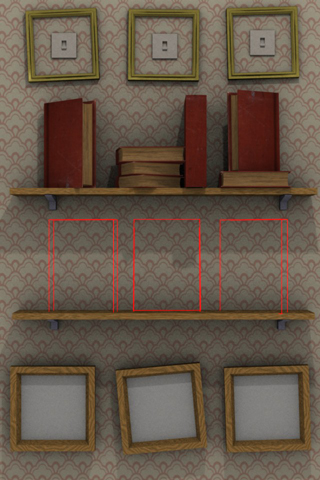
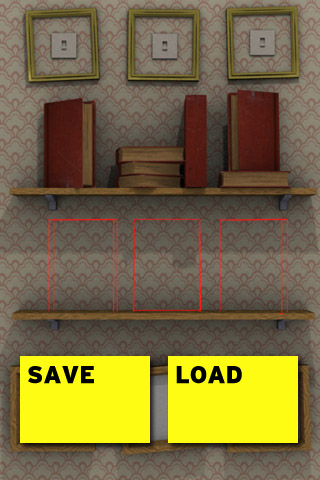
starting to move all of the data that we need to save into a seperate model structure. should make it possible to save (woop!)

Changed region(s): [[0.0625, 0.7188, 0.9688, 0.9375]]

diff --git a/src/testApp.mm b/src/testApp.mm
@@ -30,7 +30,7 @@ void testApp::setup(){
 
 	NSArray *noteSampleArray = [[NSArray alloc] initWithObjects:@"blg", @"bng", @"chm", @"cht", @"crh", @"plk", @"tnk", @"wmm", nil];
 	
-	NSMutableArray *instrumentGroup = [[NSMutableArray alloc]initWithCapacity:3];
+	instrumentGroup = [[NSMutableArray alloc]initWithCapacity:3];
 	NSMutableArray *samplePool = [[NSMutableArray alloc]initWithCapacity:3];
 	
 	[player setInstrumentGroup: instrumentGroup];
@@ -79,8 +79,9 @@ void testApp::setup(){
 		
 		[sampleInstrument reset];
 		[sampleInstrument release];
+
 	}
-		
+	
 	currentGrid = 0;	
 	[player start];
 }
@@ -104,10 +105,31 @@ void testApp::draw(){
 	ofSetColor(255, 255, 255);
 	//belt.getTextureReference().draw(0, 0);
 }
+void testApp::saveDefaults(){
+	[[NSUserDefaults standardUserDefaults] setObject:[NSKeyedArchiver archivedDataWithRootObject:mainController] forKey:@"savedArray"];
+}
+void testApp::loadDefaults(){
+	NSUserDefaults *currentDefaults = [NSUserDefaults standardUserDefaults];
+	NSData *dataRepresentingSavedArray = [currentDefaults objectForKey:@"savedArray"];
+	if (dataRepresentingSavedArray != nil)
+	{
+		NSLog(@"dearchiving");
+		mainController = [NSKeyedUnarchiver unarchiveObjectWithData:dataRepresentingSavedArray];
+
+		// reload all the missing shit.
+		[mainController setInstrumentGroup:instrumentGroup];
+		// also the grid controllers need access to the player, loop samples, note samples, and the helper
+		[mainController setPlayer:player];
+			
+	}	
+}
+
 void testApp::exit() {
+	// here we GOOOOOOO!
+	// time to archive this thinguuu
 	// need to dealloc all my shit.
 	[player stop];
-	printf("exit()\n");
+	NSLog(@"exiting");
 }
 
 void testApp::setOffset(float x, float y){
@@ -140,8 +162,16 @@ void testApp::mouseReleased(int x, int y, int button){
 }
 
 //--------------------------------------------------------------
-void testApp::touchDown(float x, float y, int touchId, ofxMultiTouchCustomData *data){	
-	[mainController touchDownX:x y:y touchId:touchId];
+void testApp::touchDown(float x, float y, int touchId, ofxMultiTouchCustomData *data){
+	if(y>360 && y<444){
+		if(x>20 && x<148){
+			this->saveDefaults();
+		}else if(x>169 && x<297){
+			this->loadDefaults();			
+		}
+	}else{
+		[mainController touchDownX:x y:y touchId:touchId];
+	}
 }
 //--------------------------------------------------------------
 void testApp::touchMoved(float x, float y, int touchId, ofxMultiTouchCustomData *data){

diff --git a/src/InMemoryAudioFile.m b/src/InMemoryAudioFile.m
@@ -27,8 +27,8 @@
 -(OSStatus)open:(NSString *)filePath{
 	
 	//print out the file path
-	NSLog(@"FilePath: ");
-	NSLog(filePath);
+//	NSLog(@"FilePath: ");
+//	NSLog(filePath);
 	
 	//get a ref to the audio file, need one to open it
 	CFURLRef audioFileURL = CFURLCreateFromFileSystemRepresentation (NULL, (const UInt8 *)[filePath cStringUsingEncoding:[NSString defaultCStringEncoding]] , strlen([filePath cStringUsingEncoding:[NSString defaultCStringEncoding]]), false);
@@ -37,7 +37,7 @@
 	OSStatus result = AudioFileOpenURL (audioFileURL, 0x01, 0, &mAudioFile);
 	//were there any errors reading? if so deal with them first
 	if (result != noErr) {
-		NSLog([NSString stringWithFormat:@"Could not open file: %s", filePath]);
+//		NSLog([NSString stringWithFormat:@"Could not open file: %s", filePath]);
 		packetCount = -1;
 	}
 	//otherwise
@@ -45,7 +45,7 @@
 		//get the file info
 		[self getFileInfo];
 		//how many packets read? (packets are the number of stereo samples in this case)
-		NSLog([NSString stringWithFormat:@"File Opened, packet Count: %d", packetCount]);
+//		NSLog([NSString stringWithFormat:@"File Opened, packet Count: %d", packetCount]);
 		
 		UInt32 packetsRead = packetCount;
 		OSStatus result = -1;
@@ -66,12 +66,12 @@
 		}
 		if (result==noErr){
 			//print out general info about  the file
-			NSLog([NSString stringWithFormat:@"Packets read from file: %d\n", packetsRead]);
-			NSLog([NSString stringWithFormat:@"Bytes read from file: %d\n", numBytesRead]);
-			//for a stereo 32 bit per sample file this is ok
-			NSLog([NSString stringWithFormat:@"Sample count: %d\n", numBytesRead / 2]);
-			//for a 32bit per stereo sample at 44100khz this is correct
-			NSLog([NSString stringWithFormat:@"Time in Seconds: %f.4\n", ((float)numBytesRead / 4.0) / 44100.0]);
+//			NSLog([NSString stringWithFormat:@"Packets read from file: %d\n", packetsRead]);
+//			NSLog([NSString stringWithFormat:@"Bytes read from file: %d\n", numBytesRead]);
+//			//for a stereo 32 bit per sample file this is ok
+//			NSLog([NSString stringWithFormat:@"Sample count: %d\n", numBytesRead / 2]);
+//			//for a 32bit per stereo sample at 44100khz this is correct
+//			NSLog([NSString stringWithFormat:@"Time in Seconds: %f.4\n", ((float)numBytesRead / 4.0) / 44100.0]);
 		}
 	}
 	

diff --git a/src/gridController.mm b/src/gridController.mm
@@ -50,6 +50,31 @@
 	pickerStyleSegmentedControl.selectedSegmentIndex = 0;
 	return self;
 }
+-(void)encodeWithCoder:(NSCoder *)coder{
+	[coder encodeObject:[[NSNumber alloc]initWithInt:currentSample] forKey:@"currentSample"];
+	// should convert into NSArray
+	[coder encodeObject:[[NSArray alloc]initWithObjects:[[NSNumber alloc]initWithInt:steps[0]],
+		[[NSNumber alloc]initWithInt:steps[1]],
+		[[NSNumber alloc]initWithInt:steps[2]],
+		[[NSNumber alloc]initWithInt:steps[3]],
+		[[NSNumber alloc]initWithInt:steps[4]],
+		[[NSNumber alloc]initWithInt:steps[5]],
+		[[NSNumber alloc]initWithInt:steps[6]],
+		[[NSNumber alloc]initWithInt:steps[7]],
+		nil] forKey:@"steps"];
+}
+- (id)initWithCoder:(NSCoder *)coder;
+{
+    if (self != nil)
+    {
+		currentSample = (int)[coder decodeObjectForKey:@"currentSample"];
+		NSArray* stepArray = [coder decodeObjectForKey:@"steps"];
+		for(int i=0;i<8;i++){
+			steps[i] = (int)[stepArray objectAtIndex:i];
+		}
+    }
+    return self;
+}
 -(void)showModePicker
 {
 	[iPhoneGlobals.window addSubview:pickerStyleSegmentedControl];

diff --git a/src/parentController.mm b/src/parentController.mm
@@ -51,6 +51,27 @@ void parentControllerHelper::drawBackground()
 	target_scale = 1;
 	return self;
 }
+- (void)encodeWithCoder:(NSCoder *)coder
+{
+    [coder encodeObject:children forKey:@"children"];
+	[coder encodeObject:currentState forKey:@"currentState"];
+	[coder encodeObject:[[NSNumber alloc]initWithInt:currentGrid] forKey:@"currentGrid"];
+}
+- (id)initWithCoder:(NSCoder *)coder
+{
+    if (self != nil)
+    {
+		children = [coder decodeObjectForKey:@"children"];
+		NSLog(@"children: %@", children);
+		currentState = [coder decodeObjectForKey:@"currentState"];
+		currentGrid = (int)[coder decodeObjectForKey:@"currentGrid"];
+    }
+    return self;
+}
+-(void)setPlayer:(RemoteIOPlayer *)_player
+{
+	player = _player;
+}
 -(void)render
 {
 	if([currentState isEqual:@"to_small"] || [currentState isEqual:@"to_large"] || [currentState isEqual:@"small"]){

diff --git a/src/parentController.h b/src/parentController.h
@@ -9,6 +9,7 @@
 #import <Foundation/Foundation.h>
 #import "gridController.h"
 #include "ofMain.h"
+#import "RemoteIOPlayer.h"
 #include "ofxiPhoneKeyboard.h"
 #import "ballController.h"
 
@@ -32,6 +33,7 @@ class parentControllerHelper
 	ballController *b_control;
 	parentControllerHelper *pcHelper;
 	NSMutableArray *instrumentGroup;
+	RemoteIOPlayer	*player;
 	NSMutableString *currentState;
 	NSMutableArray	*children;
 	NSMutableArray	*filtering;
@@ -41,6 +43,9 @@ class parentControllerHelper
 @property (assign) NSMutableArray* children;
 
 -(void)render;
+-(void)encodeWithCoder:(NSCoder *)coder;
+-(id)initWithCoder:(NSCoder *)coder;
+-(void)setPlayer:(RemoteIOPlayer *)_player;
 -(void)update;
 -(void)addChild:(NSObject *)_child;
 -(float)tweenQuadraticCurrentTime:(float)t startValue:(float)b valueChange:(float)c endTime_:(float)d;

diff --git a/src/testApp.h b/src/testApp.h
@@ -24,7 +24,8 @@ public:
 	void mousePressed(int x, int y, int button);
 	void mouseReleased();
 	void mouseReleased(int x, int y, int button );
-	
+	void saveDefaults();
+	void loadDefaults();
 	void touchDown(float x, float y, int touchId, ofxMultiTouchCustomData *data = NULL);
 	void touchMoved(float x, float y, int touchId, ofxMultiTouchCustomData *data = NULL);
 	void touchUp(float x, float y, int touchId, ofxMultiTouchCustomData *data = NULL);
@@ -38,6 +39,7 @@ public:
 	ofTrueTypeFont	littlefont;
 	RemoteIOPlayer	*player;
 	gridControllerHelper *gcHelper;
+	NSMutableArray *instrumentGroup;
 	ofImage belt;
 	bool			imageCount;
 	bool			accellOn;
@@ -54,7 +56,6 @@ public:
 	
 	parentController *mainController;
 	
-
 	string noteArray[12];
 	
 };

diff --git a/src/parentModel.h b/src/parentModel.h
@@ -1,0 +1,21 @@
+//
+//  parentModel.h
+//  iPhone Graphics Example
+//
+//  Created by jonbroFERrealz on 5/24/09.
+//  Copyright 2009 Heavy Ephemera Industries. All rights reserved.
+//
+
+#import <Cocoa/Cocoa.h>
+
+
+@interface parentModel : NSObject {
+	NSMutableArray* gridModels;
+	NSMutableString* currentState;
+	NSNumber* currentGrid;	
+}
+@property NSMutableArray *gridModels;
+@property NSMutableString* currentState;
+@property NSNumber *currentGrid;
+
+@end

diff --git a/src/gridModel.h b/src/gridModel.h
@@ -1,0 +1,20 @@
+//
+//  gridModel.h
+//  iPhone Graphics Example
+//
+//  Created by jonbroFERrealz on 5/24/09.
+//  Copyright 2009 Heavy Ephemera Industries. All rights reserved.
+//
+
+#import <Cocoa/Cocoa.h>
+
+
+@interface gridModel : NSObject {
+	NSMutableArray* steps;
+	NSNumber* currentSample;
+}
+
+@property NSMutableArray *steps;
+@property NSNumber *currentSample;
+
+@end

diff --git a/src/gridController.h b/src/gridController.h
@@ -31,6 +31,8 @@
 @property (assign) int playbackMode;
 
 -(id) init:(RemoteIOPlayer *)_player loopSamples:(NSArray *)_loopSamples noteSamples:(NSArray *)_noteSamples gcHelper:(gridControllerHelper *)_gcHelper;
+-(void)encodeWithCoder:(NSCoder *)coder;
+- (id)initWithCoder:(NSCoder *)coder;
 -(void)showModePicker;
 -(void)hideModePicker;
 -(void)toggleMode:(id)sender;

diff --git a/src/parentModel.m b/src/parentModel.m
@@ -1,0 +1,14 @@
+//
+//  parentModel.m
+//  iPhone Graphics Example
+//
+//  Created by jonbroFERrealz on 5/24/09.
+//  Copyright 2009 Heavy Ephemera Industries. All rights reserved.
+//
+
+#import "parentModel.h"
+
+
+@implementation parentModel
+
+@end

diff --git a/src/gridModel.m b/src/gridModel.m
@@ -1,0 +1,14 @@
+//
+//  gridModel.m
+//  iPhone Graphics Example
+//
+//  Created by jonbroFERrealz on 5/24/09.
+//  Copyright 2009 Heavy Ephemera Industries. All rights reserved.
+//
+
+#import "gridModel.h"
+
+
+@implementation gridModel
+
+@end
